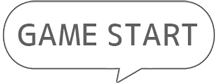
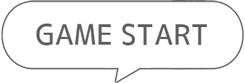
デザイン修正
・背景追加
・配置調整
・キャラコメント仕様変更

diff --git a/Classes/MainScene.cpp b/Classes/MainScene.cpp
@@ -160,7 +160,7 @@ bool MainScene::initWithLevel(int level)
 
     // ステージ番号の表示
     auto stageBackground = Sprite::create("stage_ui.png");
-    stageBackground->setPosition(Vec2(92,
+    stageBackground->setPosition(Vec2(88,
                                       winSize.height - 26));
     this->addChild(stageBackground);
     
